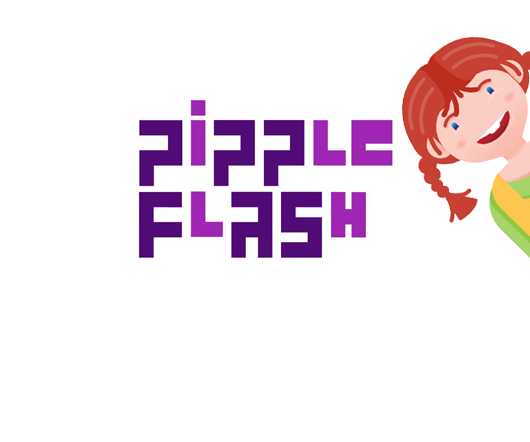
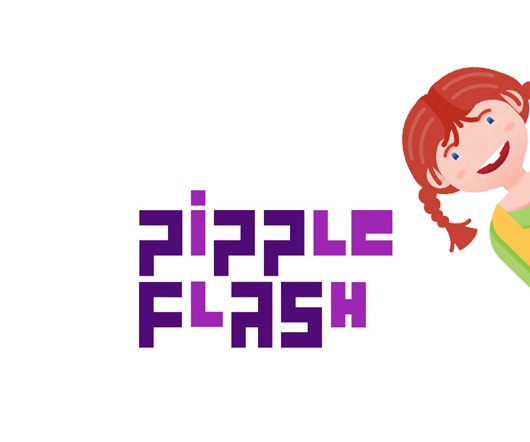
Menu aangepast

Changed region(s): [[0.2415, 0.0588, 1.0, 0.7941]]

diff --git a/Admin - Werknemers/HTML/vertical/index.html b/Admin - Werknemers/HTML/vertical/index.html
@@ -45,7 +45,7 @@
                         <img src="assets/logo/favicon.png" style="height: 60%; width: auto;">
                     </a>
                     <a href="index.html" class="logo-groot">
-                        <img src="assets/logo/Pipple-Logo-small.png" style="height: 60%; width: auto;">
+                        <img src="assets/logo/Pipple-Logo-small.png" style="height: 70px; width: 100%;">
                     </a>
                 </div>
 
@@ -145,11 +145,11 @@
                             <li class="text-muted menu-title"> </li>
 
                             <li class="has_sub">
-                                <a href="index.html" class="waves-effect"><span class="badge badge-pill badge-primary float-right">1</span><i class="zmdi zmdi-view-dashboard"></i><span> Home </span> </a>
+                                <a href="index.html" class="waves-effect"><span class="badge badge-pill badge-primary float-right"></span><i class="zmdi zmdi-view-dashboard"></i><span> Home </span> </a>
                             </li>
                             
                             <li class="has_sub">
-                                <a href="agenda.html" class="waves-effect"><span class="badge badge-pill badge-primary float-right">1</span><i class="zmdi zmdi-calendar"></i><span> Agenda </span> </a>
+                                <a href="agenda.html" class="waves-effect"><span class="badge badge-pill badge-primary float-right"></span><i class="zmdi zmdi-calendar"></i><span> Agenda </span> </a>
                             </li>    
 
                             <li class="has_sub">
@@ -166,7 +166,7 @@
                             </li>
 
                             <li class="has_sub">
-                                <a href="pippelaars.html" class="waves-effect"><span class="badge badge-pill badge-primary float-right">1</span><i class="zmdi zmdi-face"></i><span> Pippelaars </span> </a>
+                                <a href="pippelaars.html" class="waves-effect"><span class="badge badge-pill badge-primary float-right"></span><i class="zmdi zmdi-face"></i><span> Pippelaars </span> </a>
                             </li>
 
 

diff --git a/Admin - Werknemers/HTML/vertical/pippelaars.html b/Admin - Werknemers/HTML/vertical/pippelaars.html
@@ -148,11 +148,11 @@
                             <li class="text-muted menu-title"> </li>
 
                             <li class="has_sub">
-                                <a href="index.html" class="waves-effect"><span class="badge badge-pill badge-primary float-right">1</span><i class="zmdi zmdi-view-dashboard"></i><span> Home </span> </a>
+                                <a href="index.html" class="waves-effect"><span class="badge badge-pill badge-primary float-right"></span><i class="zmdi zmdi-view-dashboard"></i><span> Home </span> </a>
                             </li>
                             
                             <li class="has_sub">
-                                <a href="agenda.html" class="waves-effect"><span class="badge badge-pill badge-primary float-right">1</span><i class="zmdi zmdi-calendar"></i><span> Agenda </span> </a>
+                                <a href="agenda.html" class="waves-effect"><span class="badge badge-pill badge-primary float-right"></span><i class="zmdi zmdi-calendar"></i><span> Agenda </span> </a>
                             </li>    
 
                             <li class="has_sub">
@@ -169,7 +169,7 @@
                             </li>
 
                             <li class="has_sub">
-                                <a href="pippelaars.html" class="waves-effect"><span class="badge badge-pill badge-primary float-right">1</span><i class="zmdi zmdi-face"></i><span> Pippelaars </span> </a>
+                                <a href="pippelaars.html" class="waves-effect"><span class="badge badge-pill badge-primary float-right"></span><i class="zmdi zmdi-face"></i><span> Pippelaars </span> </a>
                             </li>
 
 
@@ -211,7 +211,7 @@
 
 
                         <div class="row">
-                            <div class="col-md-6 col-xl-3">
+                            <div class="col-md-6 col-xl-5">
                                 <div class="card-box tilebox-one">
                                     <i class="icon-layers float-right text-muted"></i>
                                     <h6 class="text-muted text-uppercase m-b-20">Aanmelden lunch vrijdagmiddag</h6>

diff --git a/Admin - Werknemers/HTML/vertical/agenda.html b/Admin - Werknemers/HTML/vertical/agenda.html
@@ -221,11 +221,11 @@
                             <li class="text-muted menu-title"> </li>
 
                             <li class="has_sub">
-                                <a href="index.html" class="waves-effect"><span class="badge badge-pill badge-primary float-right">1</span><i class="zmdi zmdi-view-dashboard"></i><span> Home </span> </a>
+                                <a href="index.html" class="waves-effect"><span class="badge badge-pill badge-primary float-right"></span><i class="zmdi zmdi-view-dashboard"></i><span> Home </span> </a>
                             </li>
                             
                             <li class="has_sub">
-                                <a href="agenda.html" class="waves-effect"><span class="badge badge-pill badge-primary float-right">1</span><i class="zmdi zmdi-calendar"></i><span> Agenda </span> </a>
+                                <a href="agenda.html" class="waves-effect"><span class="badge badge-pill badge-primary float-right"></span><i class="zmdi zmdi-calendar"></i><span> Agenda </span> </a>
                             </li>    
 
                             <li class="has_sub">
@@ -242,7 +242,7 @@
                             </li>
 
                             <li class="has_sub">
-                                <a href="pippelaars.html" class="waves-effect"><span class="badge badge-pill badge-primary float-right">1</span><i class="zmdi zmdi-face"></i><span> Pippelaars </span> </a>
+                                <a href="pippelaars.html" class="waves-effect"><span class="badge badge-pill badge-primary float-right"></span><i class="zmdi zmdi-face"></i><span> Pippelaars </span> </a>
                             </li>
 
 

diff --git a/Admin - Werknemers/HTML/vertical/klanten.html b/Admin - Werknemers/HTML/vertical/klanten.html
@@ -148,11 +148,11 @@
                             <li class="text-muted menu-title"> </li>
 
                             <li class="has_sub">
-                                <a href="index.html" class="waves-effect"><span class="badge badge-pill badge-primary float-right">1</span><i class="zmdi zmdi-view-dashboard"></i><span> Home </span> </a>
+                                <a href="index.html" class="waves-effect"><span class="badge badge-pill badge-primary float-right"></span><i class="zmdi zmdi-view-dashboard"></i><span> Home </span> </a>
                             </li>
                             
                             <li class="has_sub">
-                                <a href="agenda.html" class="waves-effect"><span class="badge badge-pill badge-primary float-right">1</span><i class="zmdi zmdi-calendar"></i><span> Agenda </span> </a>
+                                <a href="agenda.html" class="waves-effect"><span class="badge badge-pill badge-primary float-right"></span><i class="zmdi zmdi-calendar"></i><span> Agenda </span> </a>
                             </li>    
 
                             <li class="has_sub">
@@ -169,7 +169,7 @@
                             </li>
 
                             <li class="has_sub">
-                                <a href="pippelaars.html" class="waves-effect"><span class="badge badge-pill badge-primary float-right">1</span><i class="zmdi zmdi-face"></i><span> Pippelaars </span> </a>
+                                <a href="pippelaars.html" class="waves-effect"><span class="badge badge-pill badge-primary float-right"></span><i class="zmdi zmdi-face"></i><span> Pippelaars </span> </a>
                             </li>
 
 

diff --git a/Admin - Werknemers/HTML/vertical/lectures.html b/Admin - Werknemers/HTML/vertical/lectures.html
@@ -148,11 +148,11 @@
                             <li class="text-muted menu-title"> </li>
 
                             <li class="has_sub">
-                                <a href="index.html" class="waves-effect"><span class="badge badge-pill badge-primary float-right">1</span><i class="zmdi zmdi-view-dashboard"></i><span> Home </span> </a>
+                                <a href="index.html" class="waves-effect"><span class="badge badge-pill badge-primary float-right"></span><i class="zmdi zmdi-view-dashboard"></i><span> Home </span> </a>
                             </li>
                             
                             <li class="has_sub">
-                                <a href="agenda.html" class="waves-effect"><span class="badge badge-pill badge-primary float-right">1</span><i class="zmdi zmdi-calendar"></i><span> Agenda </span> </a>
+                                <a href="agenda.html" class="waves-effect"><span class="badge badge-pill badge-primary float-right"></span><i class="zmdi zmdi-calendar"></i><span> Agenda </span> </a>
                             </li>    
 
                             <li class="has_sub">
@@ -169,7 +169,7 @@
                             </li>
 
                             <li class="has_sub">
-                                <a href="pippelaars.html" class="waves-effect"><span class="badge badge-pill badge-primary float-right">1</span><i class="zmdi zmdi-face"></i><span> Pippelaars </span> </a>
+                                <a href="pippelaars.html" class="waves-effect"><span class="badge badge-pill badge-primary float-right"></span><i class="zmdi zmdi-face"></i><span> Pippelaars </span> </a>
                             </li>
 
 
